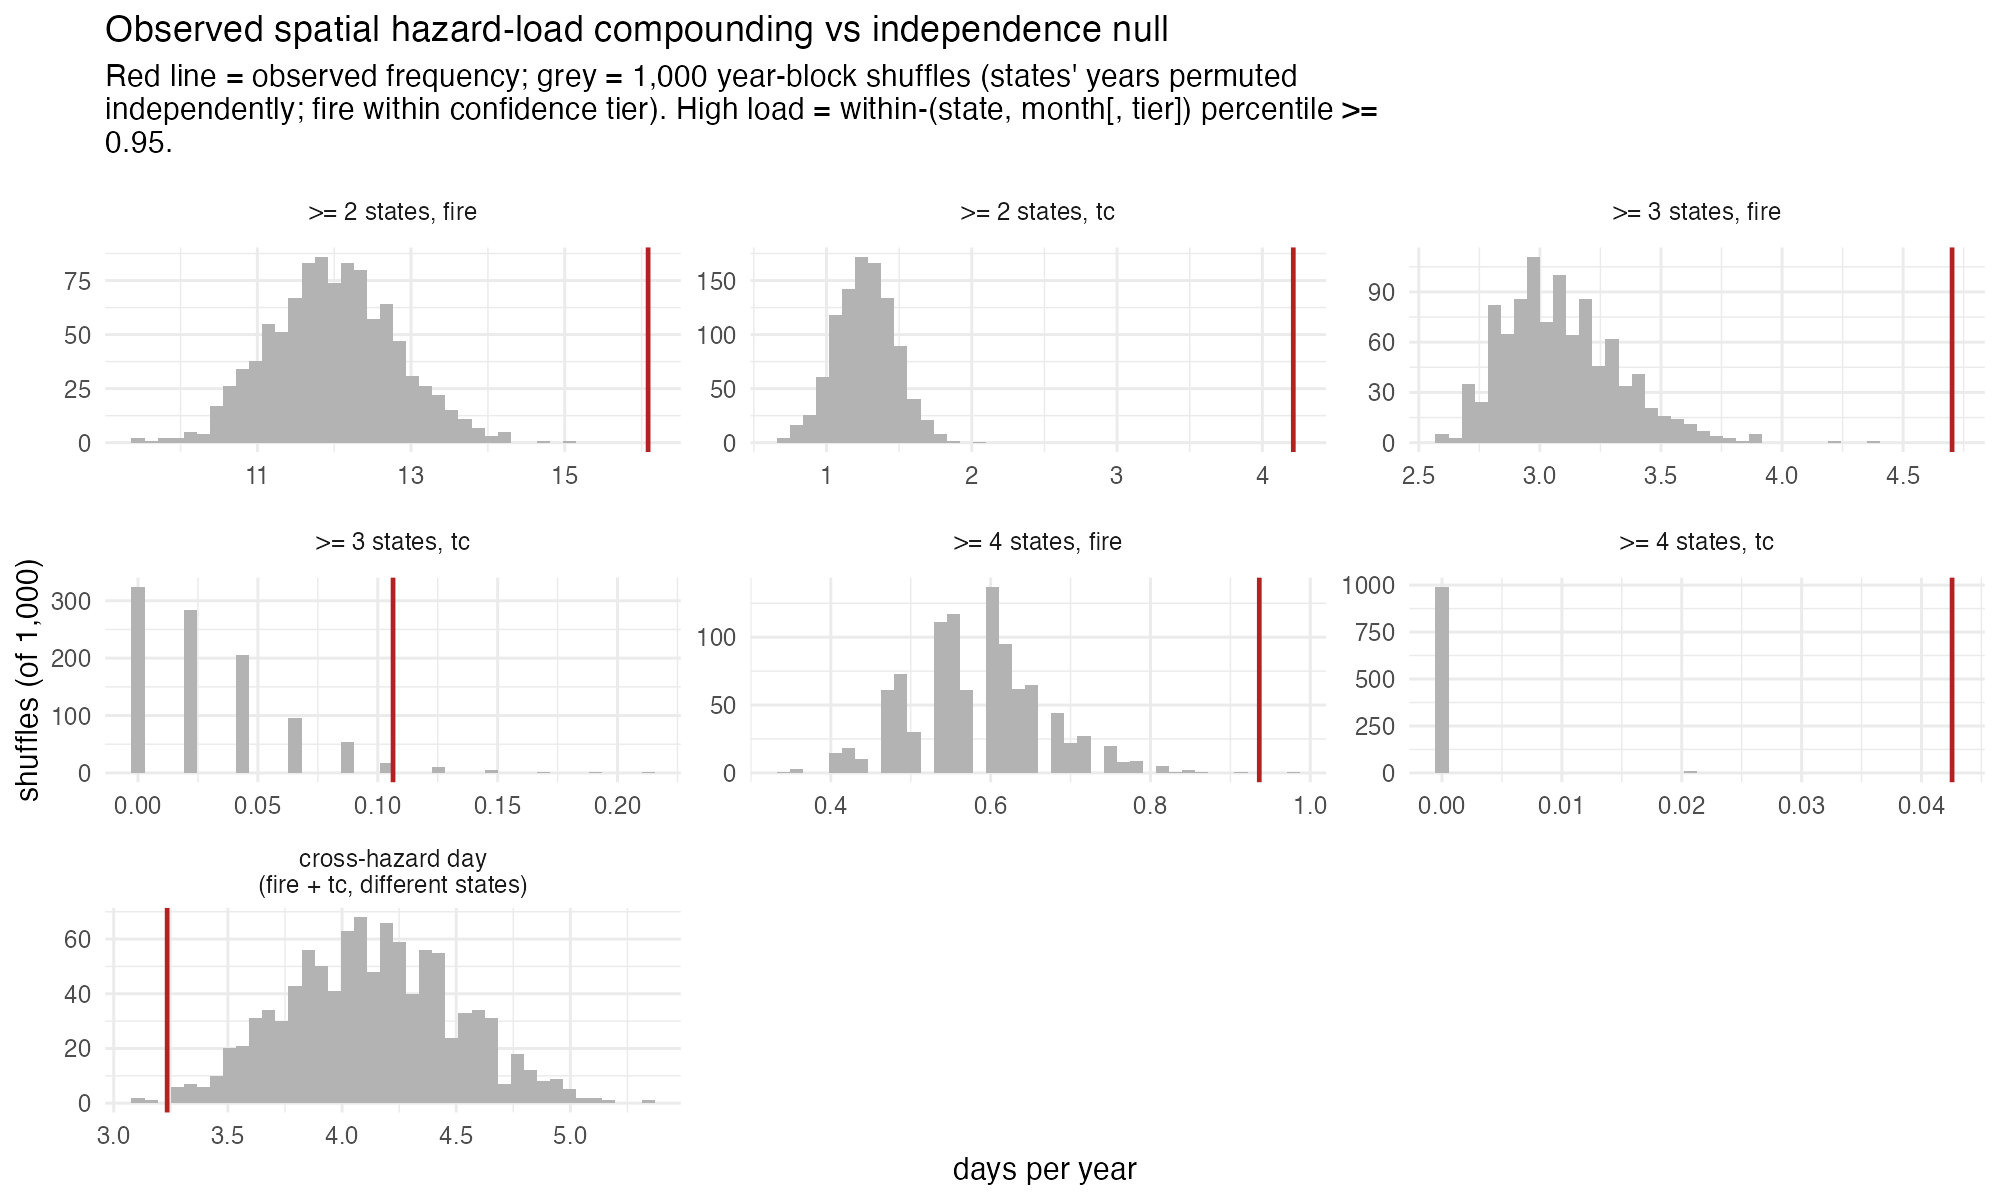
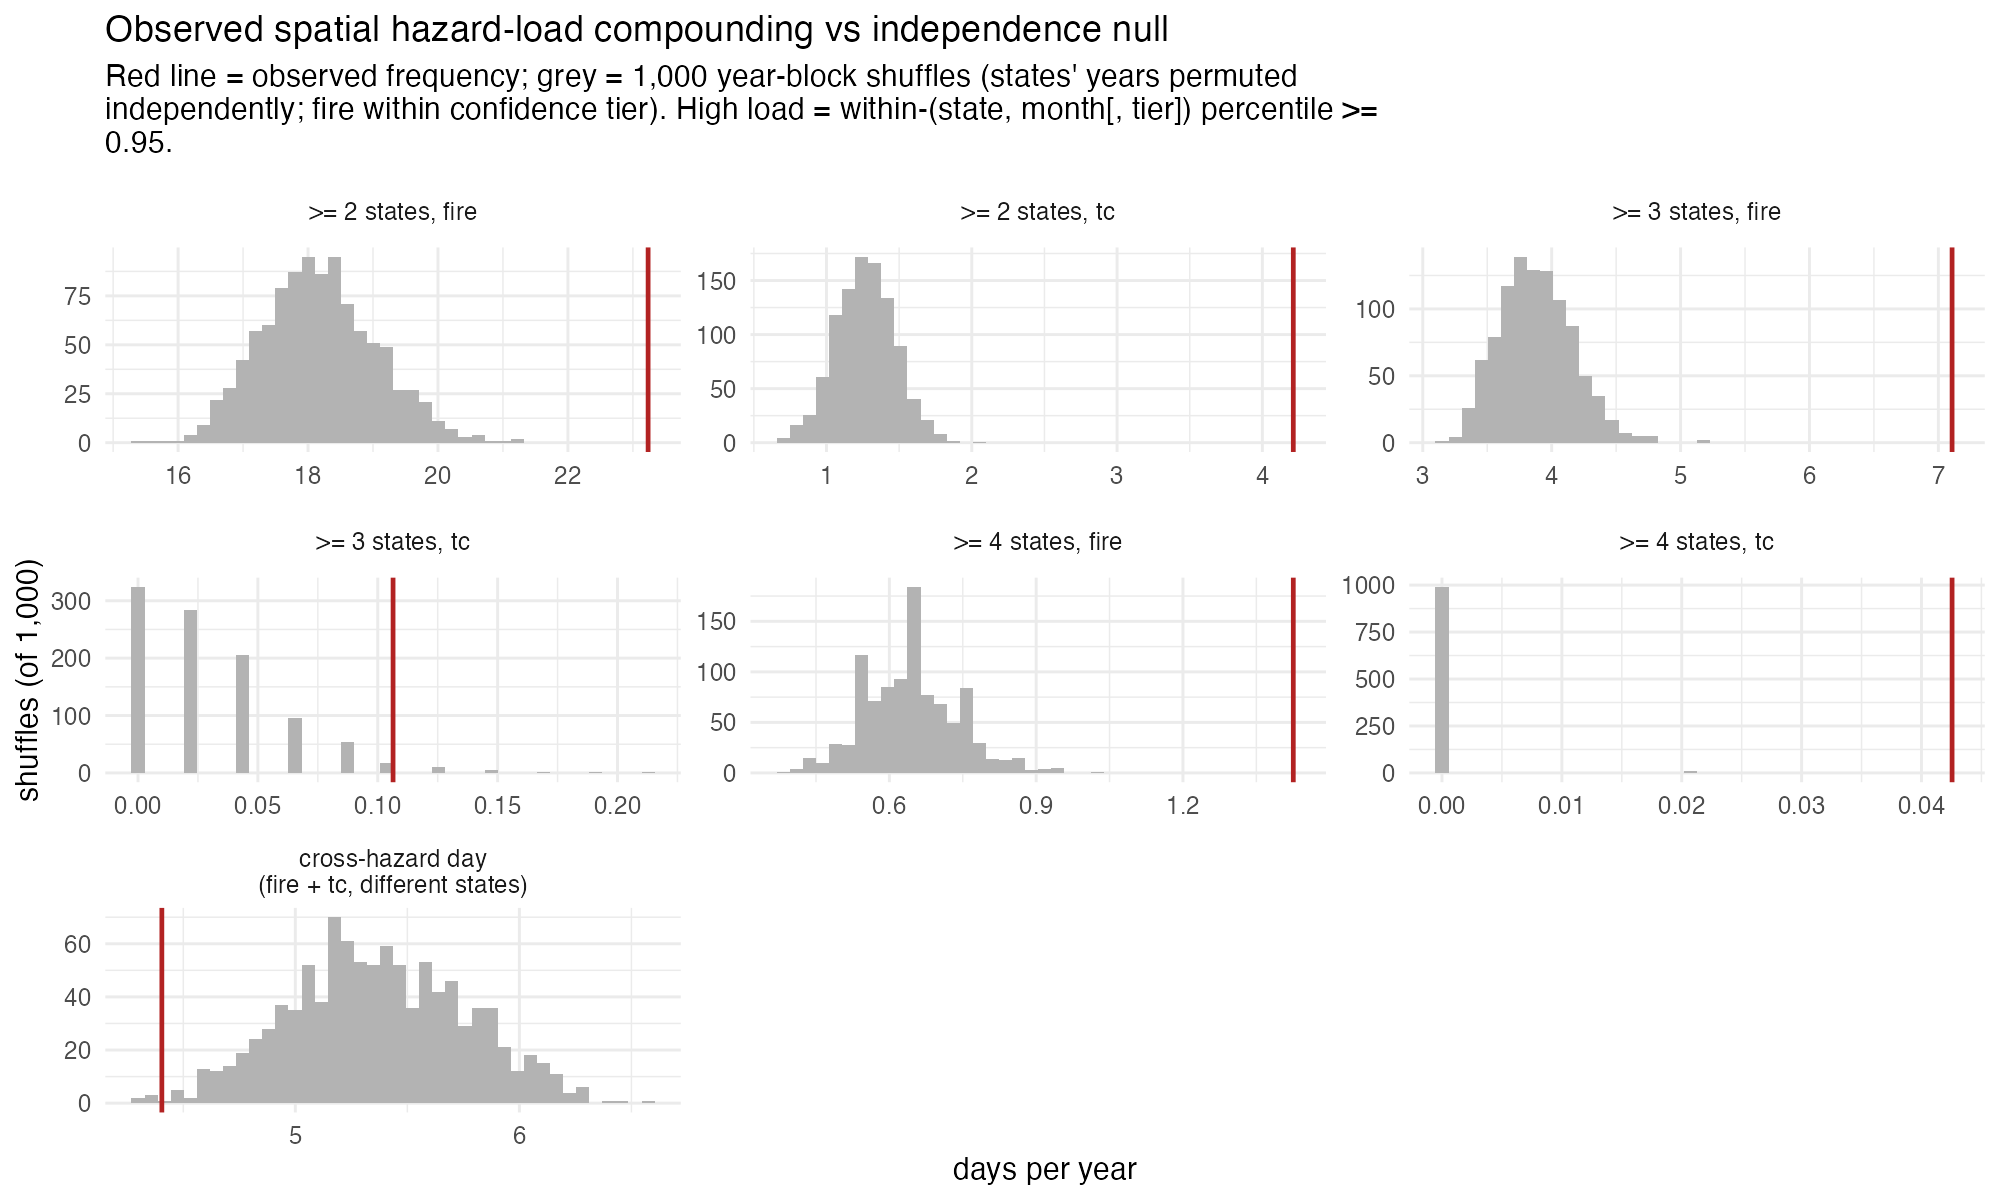
fix: re-rank combined fire score so high-load flag is a true within-group percentile
The tier-1/2 fire score was a raw mean of four percentiles, which cleared
the 0.95 flag on only ~2.6% of satellite-era days vs ~4.4% of tier-3 days
— a stricter bar for the modern era that hid Black Summer from the
descriptive outputs. Re-ranking within (state, tier, month) restores the
project-wide convention that >=0.95 means "top 5% of days" in every tier.
Definitional fix approved by the user 2026-07-10, locked in before the
post-fix ratios were seen. Panel, statistics, and figures regenerated;
face-validity gate passes.

diff --git a/tests/test_state_panel.py b/tests/test_state_panel.py
@@ -66,6 +66,32 @@ def test_fire_layer_covers_all_states_and_carries_tier():
     assert out.date.min() == pd.Timestamp("1979-01-01")
 
 
+def test_fire_score_is_true_percentile_in_hotspot_era():
+    # The combined tier-1/2 score must itself be a within-(state, tier,
+    # month) percentile: for n distinct-activity days the sorted scores
+    # are exactly 1/n, 2/n, ..., 1.0. A raw mean of four percentiles
+    # would fail this (its maximum can be 1.0 but its spacing cannot be
+    # uniform when metrics disagree), which under-flagged the satellite
+    # era at the 0.95 threshold (amendment 2026-07-10).
+    dates = pd.date_range("2015-01-01", "2015-01-20", freq="D")
+    rng = np.random.default_rng(1)
+    rows = [{"date": d, "region": "NSW",
+             **{m: float(v) for m, v in zip(FIRE_METRICS, 1 + rng.random(4))}}
+            for d in dates]
+    df = pd.DataFrame(rows)
+    out = state_fire_layer(df, _windows([]), end="2015-01-20")
+    # the ranking group is (NSW, tier 1, January) across ALL tier-1 years
+    # in the grid; the flag rate at 0.95 must be ~5% (ties in rank-sums
+    # can nudge it slightly), and the best day must score exactly 1.0
+    grp = out[(out.state == "NSW") & (out.confidence_tier == 1)
+              & (out.date.dt.month == 1)]
+    rate = (grp["state_fire"] >= 0.95).mean()
+    assert 0.03 <= rate <= 0.07
+    assert grp["state_fire"].max() == 1.0
+    # a raw mean of four disagreeing percentiles fails both: its top days
+    # cluster below 1.0 and far fewer than 5% of days clear 0.95
+
+
 def _windows(rows):
     """rows: list of (window_start, window_end, raw_state_label)."""
     df = pd.DataFrame(

diff --git a/scripts/state_panel.py b/scripts/state_panel.py
@@ -82,10 +82,11 @@ def state_fire_layer(metrics: pd.DataFrame, windows: pd.DataFrame,
     Mirrors the frozen national sub_fire recipe per tier: Tier 3
     (1979 - 2000-10-31) scores on the per-state burn-window count only;
     Tiers 1-2 score on the mean of the per-state hotspot-metric
-    percentiles. Every percentile is ranked within (state,
-    confidence_tier, calendar month) — the project's standard machinery —
-    so tier-3 values never rank against satellite-era values.
-    Returns columns [date, state, state_fire, confidence_tier].
+    percentiles, re-ranked within group so the final score is itself a
+    percentile. Every ranking is within (state, confidence_tier, calendar
+    month) — the project's standard machinery — so tier-3 values never
+    rank against satellite-era values, and a >=0.95 flag means "top 5% of
+    days" in every tier. Returns [date, state, state_fire, confidence_tier].
     """
     df = metrics[metrics["region"].isin(STATES)].copy()
     df["date"] = pd.to_datetime(df["date"])
@@ -101,6 +102,16 @@ def state_fire_layer(metrics: pd.DataFrame, windows: pd.DataFrame,
         {m: hot.groupby(keys)[m].rank(pct=True) for m in FIRE_METRICS}
     )
     hot["state_fire"] = pct.mean(axis=1)
+    # Re-rank the combined score so state_fire is itself a within-group
+    # percentile. A mean of four percentiles rarely clears 0.95 (all four
+    # metrics must spike at once), which flagged satellite-era days at
+    # roughly half the tier-3 rate and hid Black Summer from the
+    # descriptive outputs (amendment 2026-07-10, user-approved). Ranking
+    # the mean makes the >=0.95 flag mean "top 5% of days" in every tier —
+    # the project-wide high-demand-day convention. Tier 3 needs no re-rank:
+    # its single input is already a percentile, and ranking a percentile
+    # within the same group is the identity.
+    hot["state_fire"] = hot.groupby(keys)["state_fire"].rank(pct=True)
 
     # Tier 3: burn-window counts on the pre-hotspot grid
     bw = state_burn_window_daily(

diff --git a/docs/superpowers/specs/2026-07-09-state-hazard-compounding-panel-design.md b/docs/superpowers/specs/2026-07-09-state-hazard-compounding-panel-design.md
@@ -73,7 +73,14 @@ not hidden.
   1985 SA day ranks against 1980s SA days, never against satellite-era
   data or another state. `state_fire` = mean of available metric
   percentiles (Tier 3: the single window-count percentile), exactly
-  parallel to the national recipe. Border-straddling fires count in both
+  parallel to the national recipe — **then re-ranked within (state, tier,
+  month) so the score is itself a percentile** (amended 2026-07-10,
+  user-approved: the raw mean of four percentiles cleared the 0.95 flag on
+  only ~2.6% of satellite-era days vs ~4.4% of tier-3 days, holding the
+  modern era to a stricter bar and hiding Black Summer from the
+  descriptive outputs; the re-rank restores the project-wide
+  within-group-95th convention — a definitional fix locked in before the
+  post-fix ratios were seen, not tuning). Border-straddling fires count in both
   adjacent states' series — deliberate: both states' agencies respond to
   such fires.
 - **tc** — a cyclone loads a state on a day when any best-track point that

diff --git a/docs/superpowers/plans/2026-07-09-state-hazard-compounding-panel.md b/docs/superpowers/plans/2026-07-09-state-hazard-compounding-panel.md
@@ -252,6 +252,12 @@ def state_fire_layer(metrics: pd.DataFrame, windows: pd.DataFrame,
         {m: hot.groupby(keys)[m].rank(pct=True) for m in FIRE_METRICS}
     )
     hot["state_fire"] = pct.mean(axis=1)
+    # Amendment 2026-07-10 (user-approved, applied during execution): the
+    # combined score is re-ranked within (state, tier, month) so it is
+    # itself a percentile — the raw mean under-flagged the satellite era
+    # (~2.6% vs tier 3's ~4.4% at the 0.95 flag) and hid Black Summer
+    # from the descriptive outputs. See spec §2.
+    hot["state_fire"] = hot.groupby(keys)["state_fire"].rank(pct=True)
 
     # Tier 3: burn-window counts on the pre-hotspot grid
     bw = state_burn_window_daily(